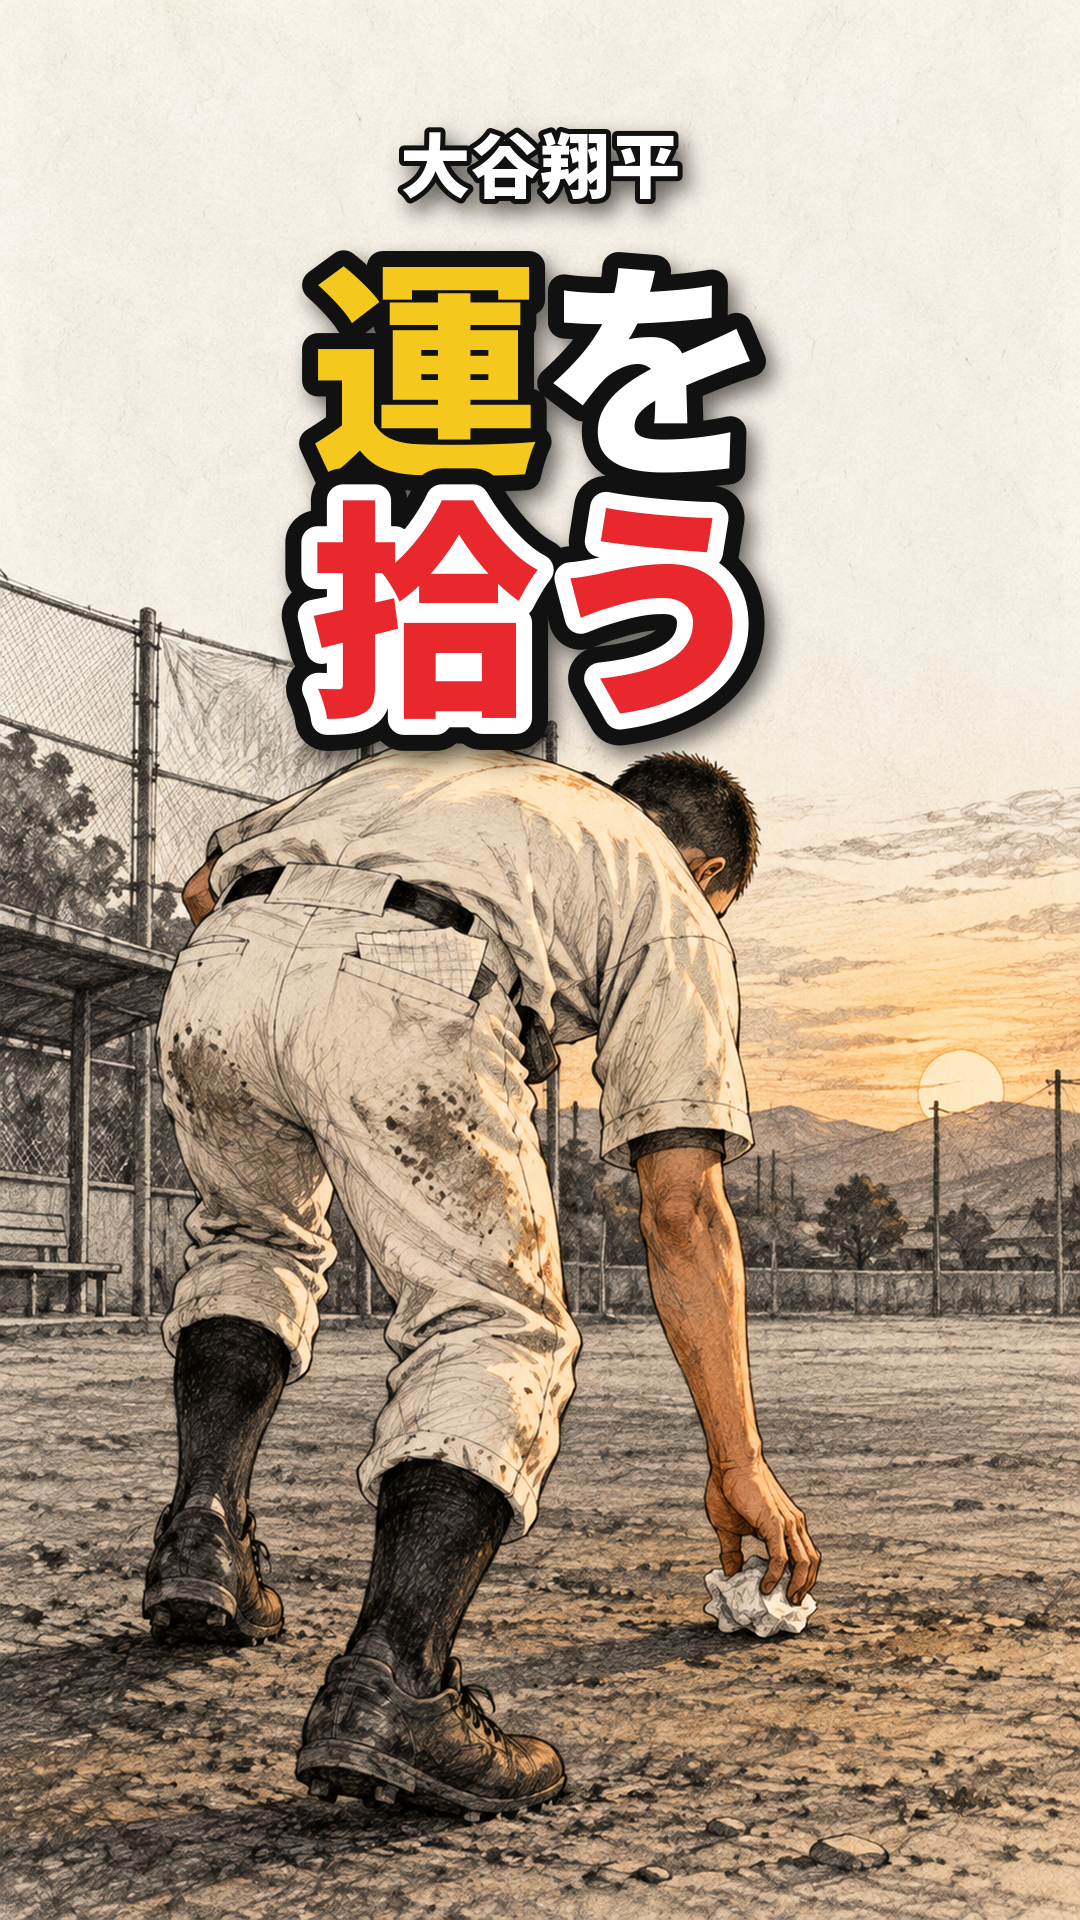
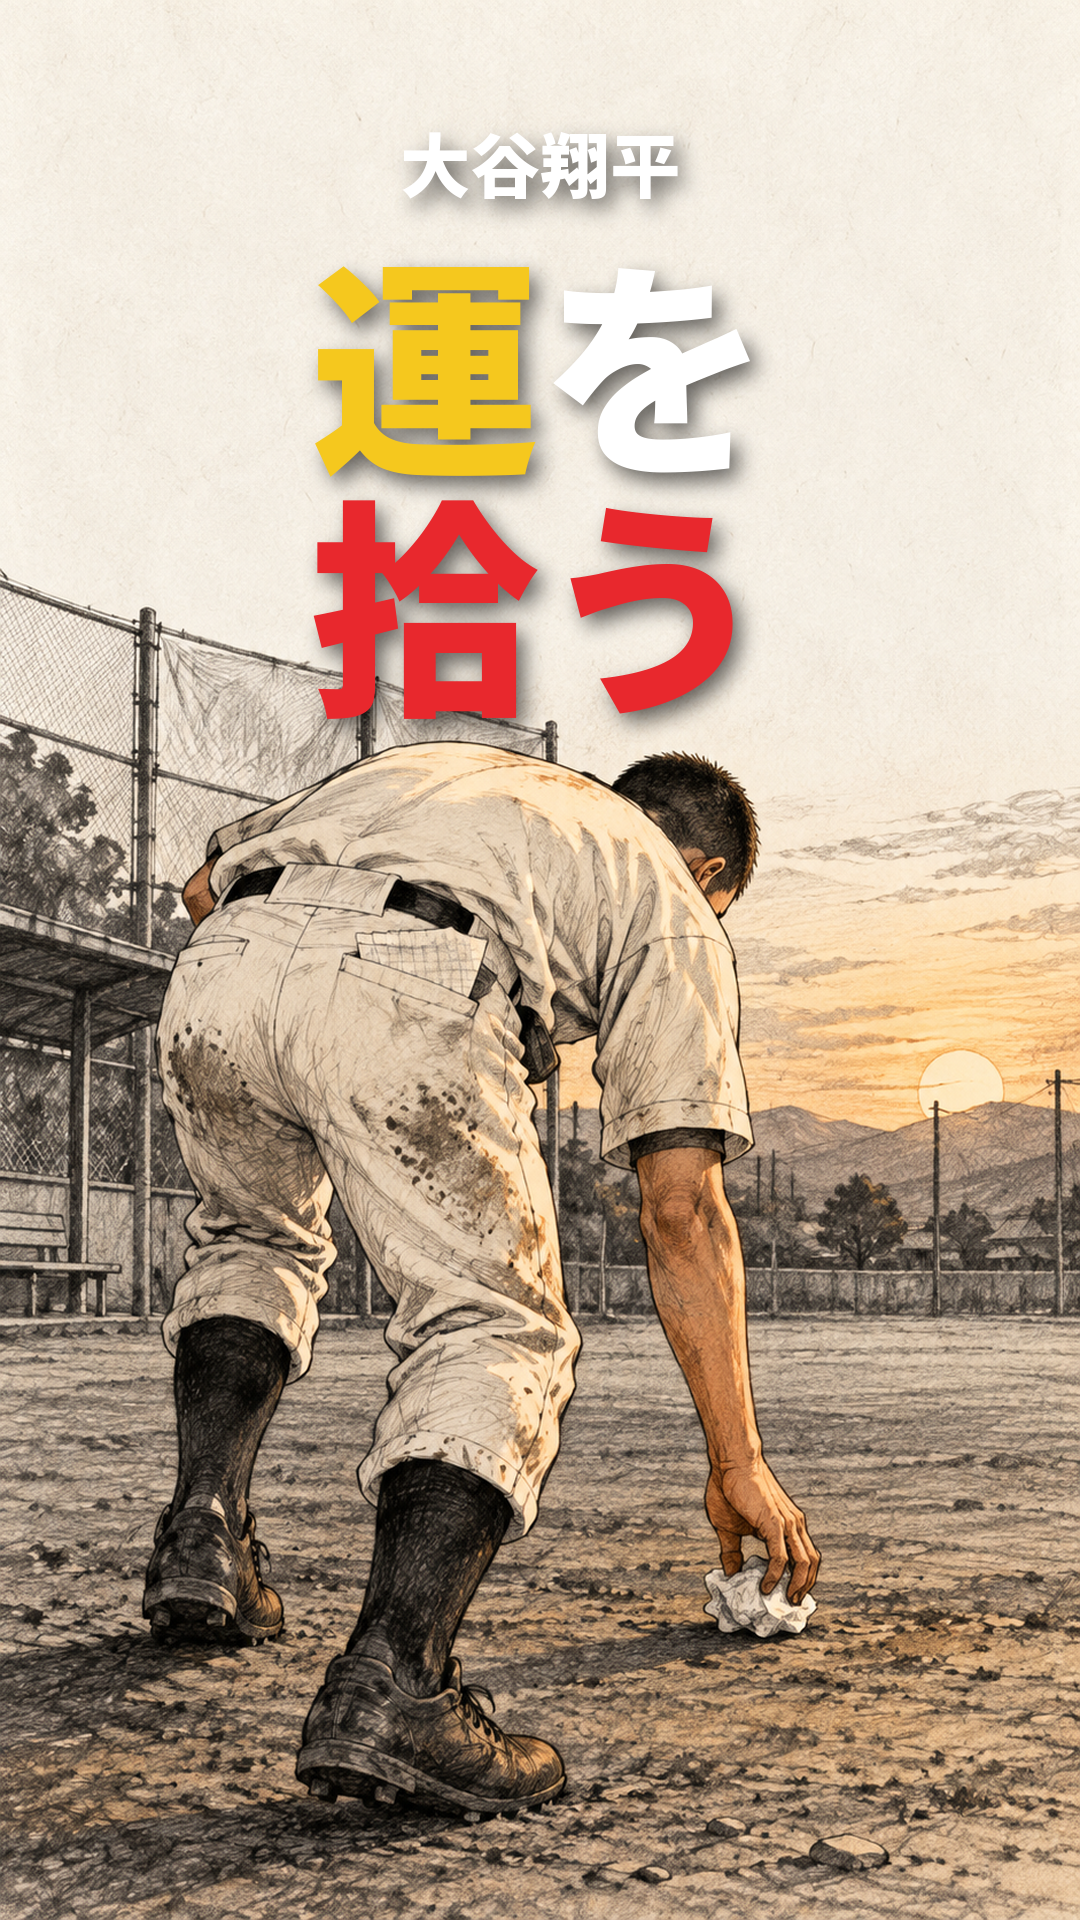
人物シリーズ第4話: サムネ文字のフチを外す
Claude-Session: https://claude.ai/code/session_01KGSrqAvsWVHFiNxJhDZV1N

Changed region(s): [[0.2444, 0.0625, 0.7333, 0.4062]]

diff --git a/company/majime-no-me/shorts-jinbutsu/ohtani-shohei/title-thumb-desc.md b/company/majime-no-me/shorts-jinbutsu/ohtani-shohei/title-thumb-desc.md
@@ -15,7 +15,7 @@
 
 ## サムネ（第3話と同じ「帯なし・白文字＋黒フチ＋影」）
 - 絵: No.1（夕方のグラウンドでゴミを拾う後ろ姿）。上35%を空けたサムネ用の絵をChatGPTで作る
-- 文字は3つだけ: 小「大谷翔平」（白）／大「**運**を」（運＝黄色、を＝白）／大「**拾う**」（赤・白フチ）
+- 文字は3つだけ: 小「大谷翔平」（白）／大「**運**を」（運＝黄色、を＝白）／大「**拾う**」（赤）。フチなし・影だけ
 
 ## サムネ用イラストのプロンプト（ChatGPT・No.1と同じチャットで続けて送る）
 ```
